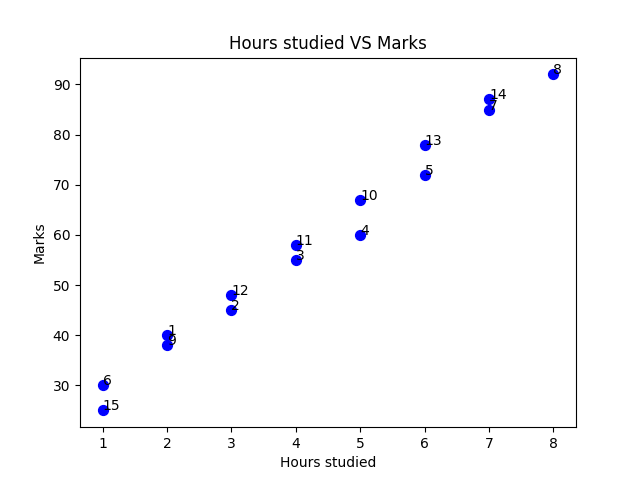
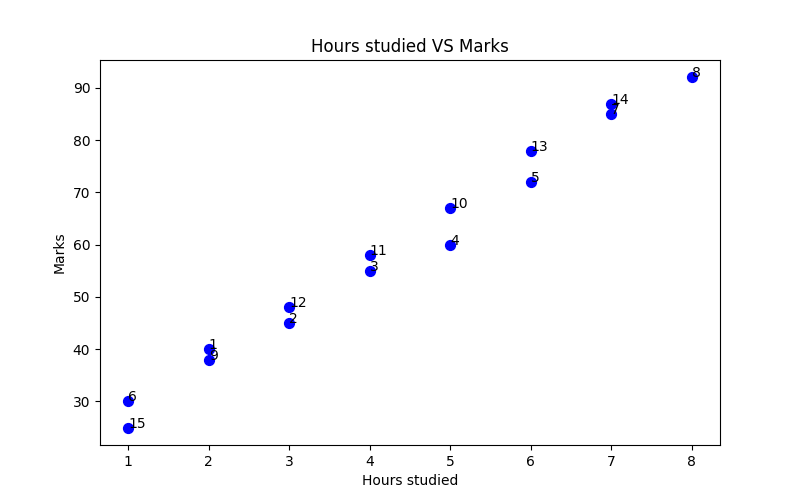
Completed student performance analysis and prediction system

diff --git a/projects/student_performance_system/analysis.py b/projects/student_performance_system/analysis.py
@@ -11,11 +11,14 @@ df.info()
 
 print("\nMissing values: \n",df.isnull().sum())
 
-print("\nDuplicate values: \n",df.duplicated().sum())
+print("\nDuplicate Rows:", df.duplicated().sum())
+
+print("\nCorrelation Matrix:\n")
+print(df.corr(numeric_only=True))
 
 #average marks 
 avg = df["marks"].mean()
-print("\nThe average marks is: \n",avg)
+print(f"\nAverage Marks: {avg:.2f}")
 
 # top marks
 top_marks = df[df["marks"]==df["marks"].max()]
@@ -26,6 +29,8 @@ low_marks = df[df["marks"]==df["marks"].min()]
 print("\nLowest makrs: \n",low_marks)
 
 ##plotting time baby.....
+
+plt.figure(figsize=(8,5))
 
 #Scattering plot
 plt.scatter(df["hours_studied"],df["marks"],color='blue',s=50)
@@ -52,7 +57,7 @@ for i,value in enumerate(df["marks"]):
     plt.text(df["student_id"][i],value+1,str(value),ha='center')
 
 plt.title("Student performance")
-plt.xlabel("Studnet id")
+plt.xlabel("Student ID")
 plt.ylabel("Marks")
 
 plt.savefig("projects/student_performance_system/outputs/bar_chart.png")

diff --git a/projects/student_performance_system/model.py b/projects/student_performance_system/model.py
@@ -33,7 +33,11 @@ mse = mean_squared_error(y_test,y_pred)
 
 hours, attendance, sleep_hours,practice_tests = map(
     float,input("Enter study hours, attendance, sleep hours, and practice tests: ").split())
-new_data = [[hours,attendance,sleep_hours,practice_tests]]
+
+new_data = pd.DataFrame(
+    [[hours, attendance, sleep_hours, practice_tests]],
+    columns=["hours_studied", "attendance", "sleep_hours", "practice_tests"]
+)
 
 #New data for predcition
 c_pred = model.predict(new_data)
@@ -49,7 +53,9 @@ print("MAE: ",round(mae,2))
 print("MSE: ", round(mse,2))
 
 print("\nCustom Student Prediction:")
-print("Predicted Marks:", round(c_pred[0], 2))
+predicted_marks = max(0, min(100, c_pred[0]))
+
+print("Predicted Marks:", round(predicted_marks, 2))
 
 
 

diff --git a/projects/student_performance_system/README.md b/projects/student_performance_system/README.md
@@ -1,24 +1,27 @@
 # 🎓 Student Performance Analysis & Prediction System
 
-A beginner Machine Learning and Data Analysis project focused on analyzing student performance using Python.
-
-This project combines:
-- data analysis
-- visualization
-- preprocessing
-- machine learning concepts
-
-to study how different factors affect student marks.
+A beginner Machine Learning project built using **Python, Pandas, Matplotlib, and Scikit-learn** to analyze student performance and predict marks based on study-related factors.
 
 ---
 
-# 📌 Project Goals
+# 🚀 Project Overview
 
-- Analyze student performance data
-- Identify trends and patterns
-- Visualize relationships between features
-- Prepare dataset for machine learning models
-- Build a prediction system for student marks
+This project focuses on:
+
+- Data Analysis
+- Data Visualization
+- Correlation Analysis
+- Linear Regression
+- Model Evaluation
+- Custom Student Prediction
+
+The system analyzes how factors like:
+- study hours
+- attendance
+- sleep
+- practice tests
+
+affect student marks.
 
 ---
 
@@ -35,6 +38,8 @@ student_performance_system/
 │   └── bar_chart.png
 │
 ├── screenshots/
+│   ├── analysis_terminal.png
+│   └── model_terminal.png
 │
 ├── analysis.py
 ├── model.py
@@ -46,9 +51,7 @@ student_performance_system/
 
 # 📊 Dataset Features
 
-The dataset currently contains:
-
-| Column | Description |
+| Feature | Description |
 |---|---|
 | student_id | Unique student ID |
 | hours_studied | Daily study hours |
@@ -56,38 +59,116 @@ The dataset currently contains:
 | sleep_hours | Average sleep hours |
 | practice_tests | Number of practice tests |
 | marks | Final marks |
-| result | Pass/Fail result |
+| result | Pass/Fail |
 
 ---
 
-# ✅ Current Features Implemented
+# 🧠 Features Implemented
 
-## Data Analysis
+## ✅ Data Analysis
 - Dataset loading using Pandas
-- Dataset inspection
 - Missing value checking
-- Duplicate value checking
-- Statistical analysis
+- Duplicate row checking
+- Average marks calculation
+- Highest and lowest marks analysis
 
 ---
 
-## Insights Generated
-- Average marks
-- Highest marks
-- Lowest marks
+## ✅ Correlation Analysis
+Used correlation matrix to understand relationships between:
+- study hours
+- attendance
+- sleep hours
+- practice tests
+- marks
 
 ---
 
-## Visualizations
-### Scatter Plot
-- Hours Studied vs Marks
+## ✅ Data Visualization
+Created:
+- Scatter Plot
+- Bar Chart
 
-### Bar Chart
-- Student ID vs Marks
+using Matplotlib.
 
-Graphs are automatically saved inside:
-```bash
-outputs/
+---
+
+# 📈 Visual Outputs
+
+## 📊 Student Performance Bar Chart
+
+![Bar Chart](outputs/bar_chart.png)
+
+---
+
+## 📉 Hours Studied vs Marks Scatter Plot
+
+![Scatter Plot](outputs/scatter_plot.png)
+
+---
+
+# 🤖 Machine Learning Model
+
+Implemented:
+- Linear Regression
+- Train-Test Split
+- Custom User Prediction
+
+using Scikit-learn.
+
+---
+
+# 📌 Model Workflow
+
+```text
+Load Dataset
+→ Feature Selection
+→ Train-Test Split
+→ Train Model
+→ Predict Marks
+→ Evaluate Model
+→ Custom Prediction
+```
+
+---
+
+# 📊 Model Evaluation Metrics
+
+| Metric | Value |
+|---|---|
+| R² Score | 0.98 |
+| MAE | 2.7 |
+| MSE | 8.21 |
+
+---
+
+# 🖥 Terminal Outputs
+
+## 📌 Analysis Output
+
+![Analysis Output](screenshots/analysis_terminal.png)
+
+---
+
+## 📌 Model Prediction Output
+
+![Model Output](screenshots/model_terminal.png)
+
+---
+
+# 🎯 Custom Prediction Example
+
+Input:
+```text
+Study Hours: 6
+Attendance: 90
+Sleep Hours: 7
+Practice Tests: 8
+```
+
+Predicted Marks:
+```text
+88.12
 ```
 
 ---
@@ -97,21 +178,22 @@ outputs/
 - Python
 - Pandas
 - Matplotlib
+- Scikit-learn
 
 ---
 
 # 🚀 Future Improvements
 
 Planned future additions:
-- Linear Regression model
 - Logistic Regression
-- Train-test split
-- Model evaluation
-- Prediction system
-- Streamlit web app
+- Classification models
+- Better datasets
+- Streamlit Web App
+- Deployment
 
 ---
 
-# 🎯 Purpose Of This Project
+# 👨💻 Author
 
-This project is part of a larger Python → AI learning journey focused on building practical projects instead of only following tutorials.
+Ashwani  
+CSAI Student | Python & AI Learning Journey